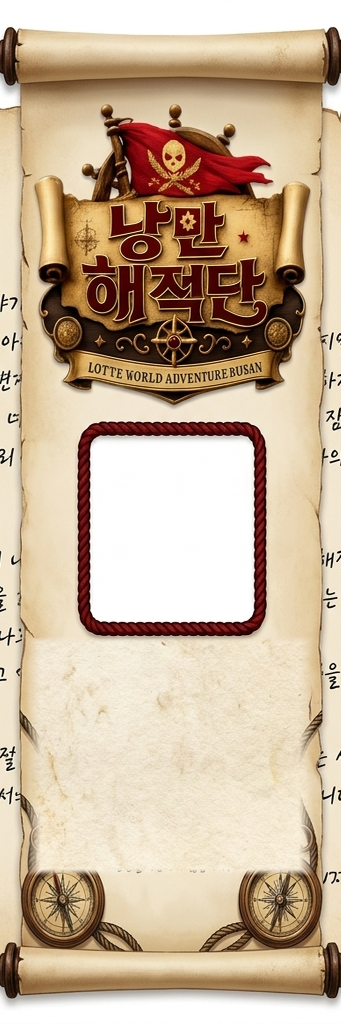
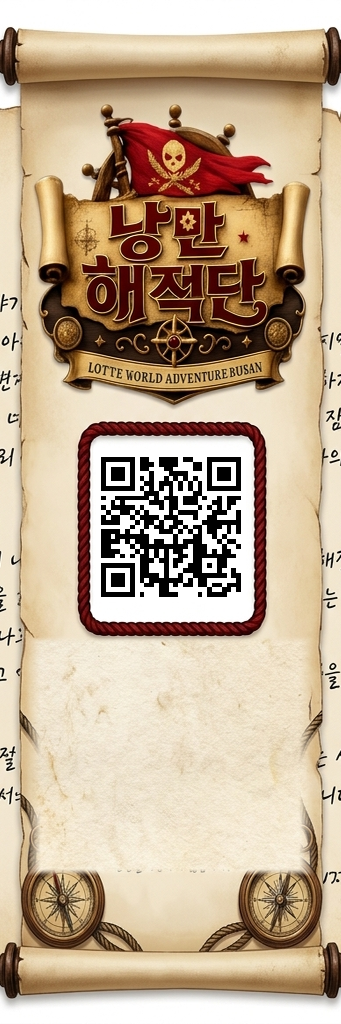
design: generate and embed QR code for romantic-pirates.vercel.app onto event_banner.png

Changed region(s): [[0.2933, 0.4375, 0.7038, 0.5938]]

diff --git a/generate_banner_with_qr.py b/generate_banner_with_qr.py
@@ -1,0 +1,36 @@
+import qrcode
+from PIL import Image
+
+def embed_qr_code(banner_path, url, output_path):
+    # 1. Load the banner
+    banner = Image.open(banner_path)
+    
+    # 2. Generate the QR code
+    qr = qrcode.QRCode(
+        version=1,
+        error_correction=qrcode.constants.ERROR_CORRECT_M,
+        box_size=10,
+        border=1,  # Slim border to fit maximum size
+    )
+    qr.add_data(url)
+    qr.make(fit=True)
+    
+    # Create the QR image (size is determined by box_size and border, e.g., 29x10 + 2*10 = 310x310)
+    qr_img = qr.make_image(fill_color="black", back_color="white")
+    
+    # Resize QR image to fit our 150x150 target area perfectly
+    qr_img_resized = qr_img.resize((150, 150), Image.Resampling.LANCZOS)
+    
+    # 3. Paste the QR code onto the banner at coordinates x=96, y=452 (centered inside the rope frame)
+    banner.paste(qr_img_resized, (96, 452))
+    
+    # 4. Save the final banner
+    banner.save(output_path, "PNG")
+    print(f"Successfully embedded QR code for {url} onto {output_path}")
+
+if __name__ == "__main__":
+    embed_qr_code(
+        "/Users/yong/workspace/pirates/event_banner.png",
+        "https://romantic-pirates.vercel.app",
+        "/Users/yong/workspace/pirates/event_banner.png"
+    )
